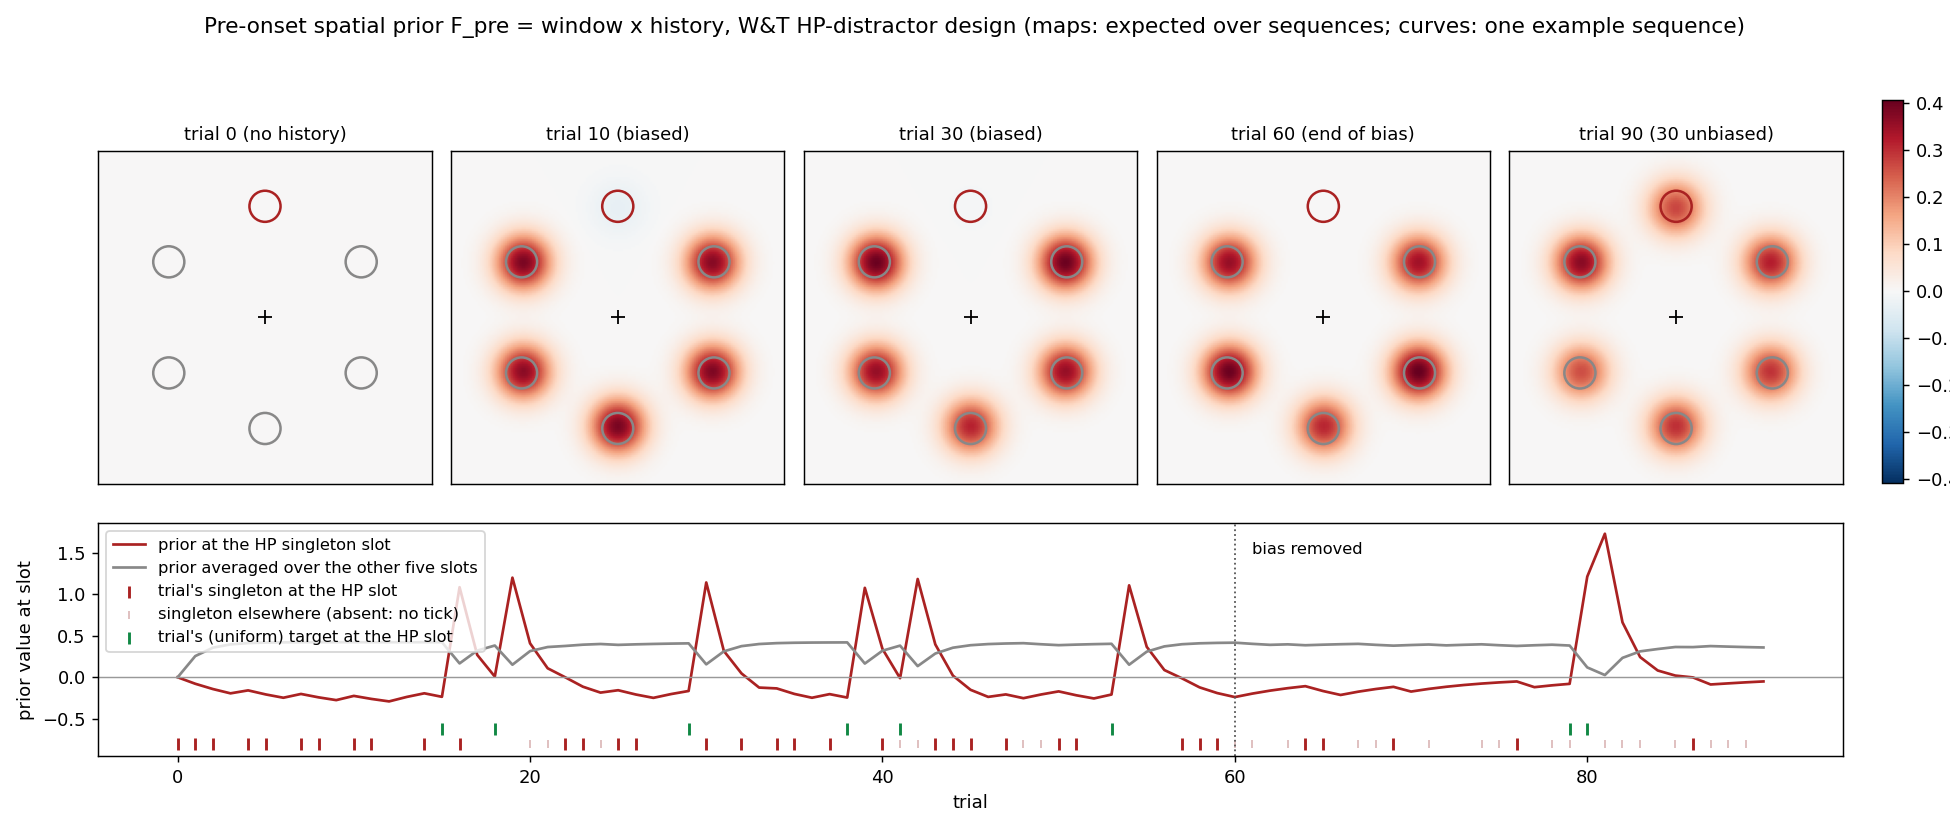
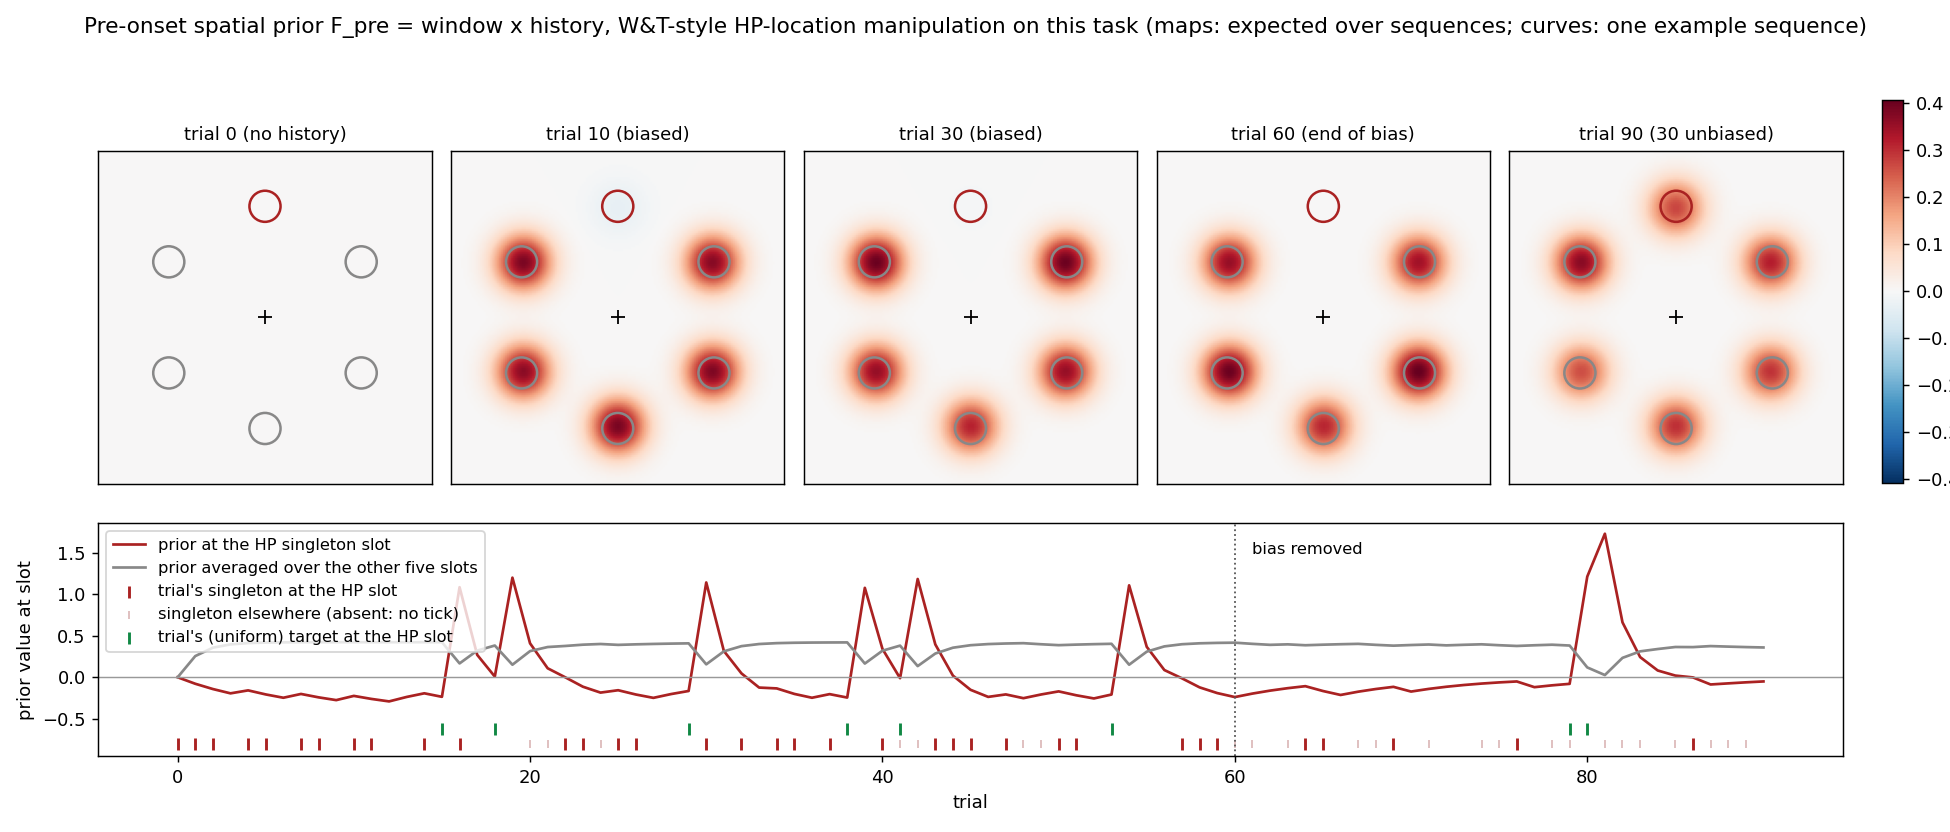
Stop overclaiming the W&T battery: it transplants their manipulation, not their task
Han's challenge: the model's task set (fixed color gains, circle
template) cannot represent the additional-singleton paradigm, where
the target is a shape SINGLETON (local uniqueness, no template) and
capture is bottom-up salience - the dropped w_S channel. The wang()
battery only ever applied W&T's HP-location contingency to our own
displays, testing the location traces - the shared component. Code,
figure, and ledger now label it "W&T-style manipulation on this
task" and record what modeling their real task would require.

Changed region(s): [[0.0615, 0.0, 0.9538, 0.0625]]

diff --git a/Visual-Search/reproduce.py b/Visual-Search/reproduce.py
@@ -6,8 +6,14 @@
 
 Gaspelin battery (held-out subjects, first saccades - the model's
 scope): oculomotor suppression, intertrial location priming.
-Wang & Theeuwes: high-probability distractor-location simulation
-(capture reduction at the HP location, target cost there, gradient).
+HP-location battery: Wang & Theeuwes' STATISTICAL MANIPULATION (a
+65% predictable distractor location) transplanted onto THIS task's
+displays and task set. It tests only the location-learning traces -
+the component the paradigms share. It is not a simulation of their
+additional-singleton task: their target is defined by shape
+UNIQUENESS (no fixed template) and their capture is bottom-up
+salience, neither of which this model represents (the salience
+channel was dropped for minimality; see RESULTS).
 """
 
 import argparse
@@ -158,7 +164,8 @@ def wang(m, runs=400, trials=400, hp=0):
                 eD[sing - 1] = 1.0
             hD = (1 - etaD) * hD + etaD * eD
     r = {k: 100 * v[0] / max(v[1], 1) for k, v in acc.items()}
-    print("== Wang & Theeuwes HP-distractor-location simulation ==")
+    print("== HP-distractor-location battery "
+          "(W&T's manipulation on this task's displays) ==")
     print(f"capture at HP location: {r['cap_hp']:.2f}%   at LP: {r['cap_lp']:.2f}%")
     print(f"target found at HP: {r['targ_hp']:.2f}%   elsewhere: {r['targ_lp']:.2f}%")
     for dd in (1, 2, 3):

diff --git a/Visual-Search/render_prior_evolution.py b/Visual-Search/render_prior_evolution.py
@@ -154,9 +154,10 @@ def main():
     cax = fig.add_axes([0.965, 0.42, 0.011, 0.46])
     cb = fig.colorbar(im, cax=cax)
     cb.set_label("expected prior (symmetric scale)", fontsize=8)
-    fig.suptitle("Pre-onset spatial prior F_pre = window x history, W&T "
-                 "HP-distractor design (maps: expected over sequences; "
-                 "curves: one example sequence)", fontsize=12)
+    fig.suptitle("Pre-onset spatial prior F_pre = window x history, "
+                 "W&T-style HP-location manipulation on this task "
+                 "(maps: expected over sequences; curves: one example "
+                 "sequence)", fontsize=12)
     import os
     os.makedirs("figures", exist_ok=True)
     plt.savefig("figures/prior_evolution.png", dpi=130)

diff --git a/Visual-Search/RESULTS.md b/Visual-Search/RESULTS.md
@@ -714,6 +714,26 @@ condition is now predicted by a model that never saw it in any
 form, colors or choices. The earlier oracle/ceiling benchmarks and
 ablation prices in this ledger refer to the pre-exclusion dataset.
 
+## The "Wang & Theeuwes" battery is a transplant, not a simulation
+(Han's challenge)
+
+The wang() battery applies W&T's STATISTICAL manipulation - a 65%
+predictable distractor location - to THIS task's displays and task
+set, and tests only the location-learning traces, the one component
+the paradigms plausibly share (traces live over slots, not
+features). It is not a simulation of the additional-singleton task
+itself, and the model as constituted cannot represent that task:
+their target is defined by shape UNIQUENESS (a local-contrast /
+heterogeneity computation, not a fixed template - g_form does not
+apply in kind), and their capture is bottom-up salience - exactly
+the w_S channel dropped for minimality. Modeling W&T's actual
+paradigm would need the salience channel reinstated plus a
+local-uniqueness shape-contrast channel; until then the safe claims
+from this battery are qualitative and trace-borne: reduced capture
+at the HP location, a target cost there, and the recorded failure
+(flat rather than graded spillover to neighboring locations). Code
+and figure labels now say "W&T-style manipulation on this task."
+
 ## Caveats on record
 
 - **Window anchoring: display-relative vs fixed-size - untestable
